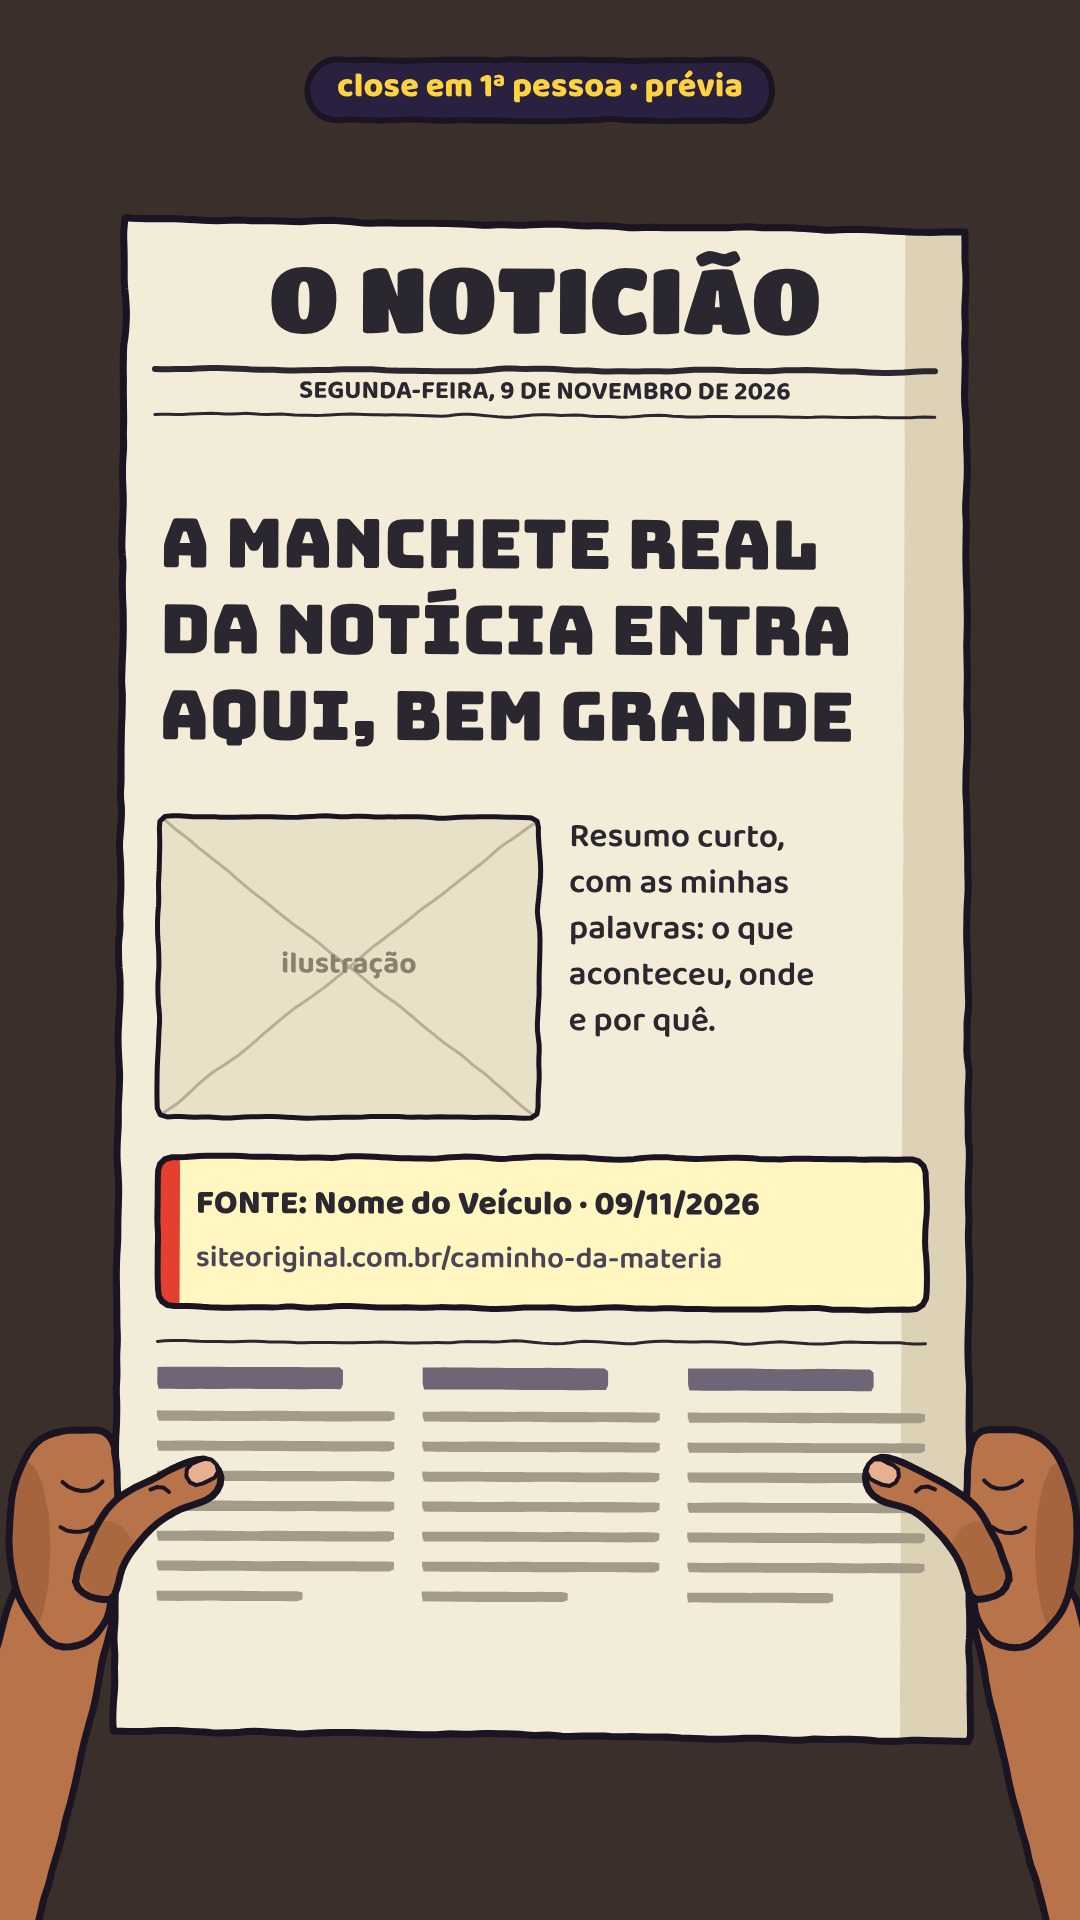
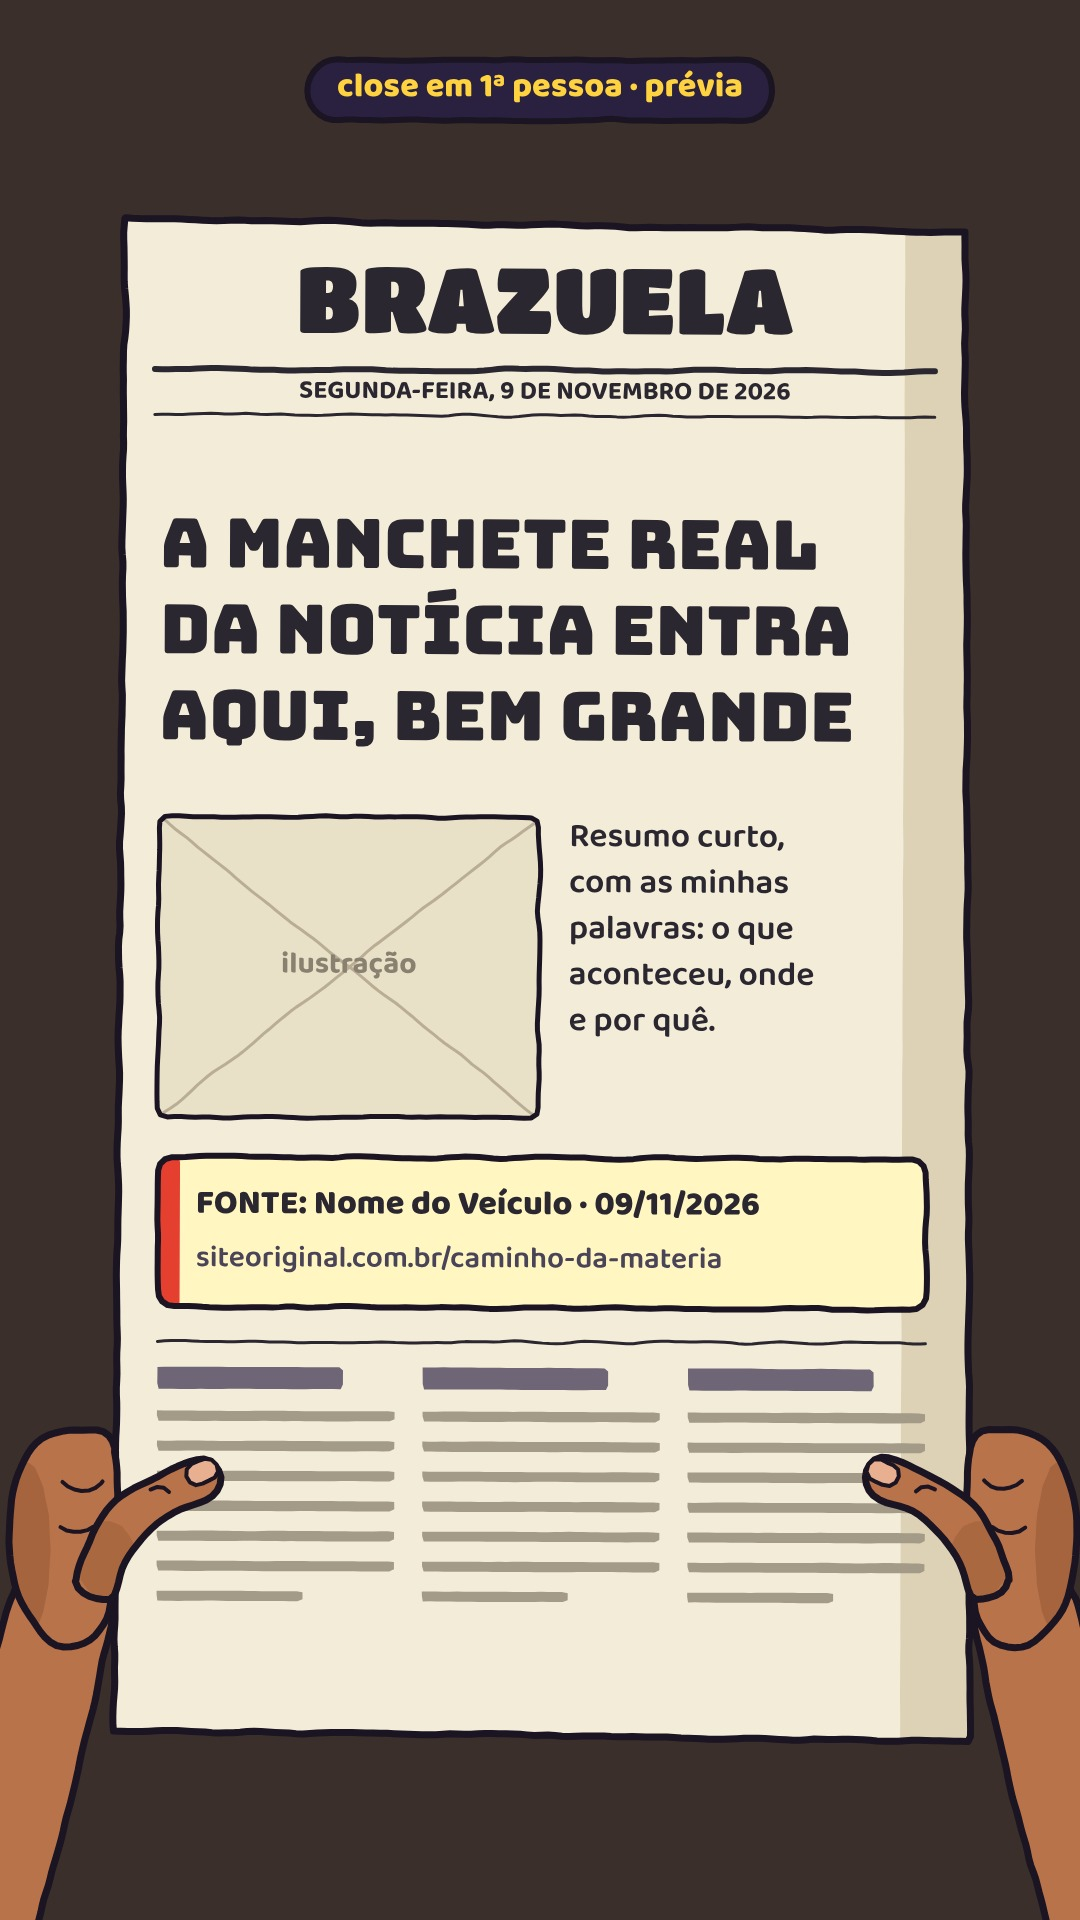
Name the cat Bituca, the parrot Lorenzo and the newspaper BRAZUELA
Claude-Session: https://claude.ai/code/session_01Vj4AmTyz2VXWMZUhwj9hEg

Changed region(s): [[0.3972, 0.125, 0.7639, 0.1875], [0.2444, 0.125, 0.3667, 0.1875]]

diff --git a/jornal/cast.js b/jornal/cast.js
@@ -317,7 +317,7 @@ function colher(hp, a) {
   pop();
 }
 
-// —— 3. O GATO MAGRICELO: cinza rajado, costelas à mostra, orelha dobrada, rabo com dobra, olhão de aprontar ——
+// —— 3. BITUCA, o gato magricelo: cinza rajado, costelas à mostra, orelha dobrada, rabo com dobra, olhão de aprontar ——
 // P: { x, y, s, t, face, arch (0..1), look, lid, mouth, tail }
 export function gato(P) {
   const t = P.t ?? 0, arch = P.arch ?? .3;
@@ -359,7 +359,7 @@ export function gato(P) {
   pop();
 }
 
-// —— 4. O PAPAGAIO: verde, testa azul, cara amarela, ombro vermelho, bico curvo que abre pra gritar ——
+// —— 4. LORENZO, o papagaio: verde, testa azul, cara amarela, ombro vermelho, bico curvo que abre pra gritar ——
 // P: { x, y, s, t, face, beak (0..1 aberto), look, lid, wing (0..1 aberta), bob }
 export function papagaio(P) {
   const t = P.t ?? 0, bk = P.beak ?? 0, wing = P.wing ?? 0;
@@ -586,7 +586,7 @@ export function jornalClose(P) {
     fillOnly(rect(W2 - 60, -H2, 80, H2 * 2), PAL.paperS, { boil: .2 });
     stroke([[-W2 + 30, -H2 + 150], [W2 - 30, -H2 + 150]], 6, { line: PAL.news }); stroke([[-W2 + 30, -H2 + 196], [W2 - 30, -H2 + 196]], 3, { line: PAL.news });
   } });
-  text(P.masthead ?? 'O NOTICIÃO', 0, -H2 + 82, { font: '92px "Titan One"', fill: PAL.news });
+  text(P.masthead ?? 'BRAZUELA', 0, -H2 + 82, { font: '92px "Titan One"', fill: PAL.news });
   text(P.date ?? 'SEGUNDA-FEIRA, 9 DE NOVEMBRO DE 2026', 0, -H2 + 174, { font: '700 26px "Baloo 2"', fill: PAL.news });
   if (P.kicker) { shape(rr(-W2 + 34, -H2 + 222, 260, 44, 8), { fill: PAL.pRed, lw: 5 }); text(P.kicker, -W2 + 164, -H2 + 245, { font: '800 28px "Baloo 2"', fill: '#ffffff' }); }
   const hl = P.headline ?? ['A MANCHETE REAL', 'DA NOTÍCIA ENTRA', 'AQUI, BEM GRANDE'];

diff --git a/jornal/sheet.js b/jornal/sheet.js
@@ -46,13 +46,13 @@ window.render = (t) => {
     fillOnly(rect(0, 1240, 540, 50), PAL.floor, { boil: 0 });
     gato({ x: 290, y: 1258, s: .95, t, arch: .55, look: [.6, -.4] });
   });
-  label(20, 888, 3, 'O GATO', 'magricelo · bagunceiro');
+  label(20, 888, 3, 'BITUCA', 'magricelo · bagunceiro');
   clip(540, 850, 540, 440, () => {
     cell(540, 850, 540, 440, ['#ffb347', '#ff9a55', '#ff8a5c']);
     poleiro({ x: 800, y: 1290, s: 1, h: 120 });
     papagaio({ x: 790, y: 1166, s: .82, t, beak: .8, wing: .6, look: [.6, -.2] });
   });
-  label(560, 888, 4, 'O PAPAGAIO', 'repete na pior hora');
+  label(560, 888, 4, 'LORENZO', 'repete na pior hora');
   vline(540, 850, 1290); hline(1290);
 
   // 5 Poltrona + mesinha + café
@@ -73,7 +73,7 @@ window.render = (t) => {
     jornalClose({ t });
     pop();
   });
-  label(560, 1328, 6, 'O JORNAL', 'close nas mãos dele');
+  label(560, 1328, 6, 'BRAZUELA', 'o jornal · close nas mãos dele');
   vline(540, 1290, 1920);
 };
 await document.fonts.load('58px "Titan One"'); await document.fonts.load('800 38px "Baloo 2"'); await document.fonts.load('78px "Bungee"');

diff --git a/SERIE-JORNAL.md b/SERIE-JORNAL.md
@@ -8,8 +8,8 @@ A pessoa manda uma **notícia** (de preferência o link; print também serve). U
 ## Elenco fixo (desenhar uma vez, reaproveitar em todo episódio)
 - **Seu Chicó** (o senhor; desenhado a partir da foto de referência da pessoa): cabelo branco cacheado, óculos de armação escura, bigodinho branco, camiseta azul com o "14" pontilhado, calça azul-marinho e chinelo de dedo. Gesto típico: a mão no queixo. Sentado na poltrona, lê o jornal todo dia, dá opiniões engraçadas e ri.
 - **Dona Zefinha** (a esposa; mesma foto de referência): cabelo grisalho puxado num coque, óculos de aro fino, vestido azul com estampa de treliça, casaco vermelho com desenhos geométricos e chinelo azul-marinho. Fica de braços cruzados e cara séria. Está sempre na cozinha fazendo alguma coisa. Se intromete de vez em quando com bordões: "bem que te avisei", "né pussive", "rapaz, o mundo tá de cabeça pra baixo mesmo" e outros a inventar.
-- **Gato magricelo:** faz bagunça e estressa o senhor (derruba a xícara etc.).
-- **Papagaio:** repete palavras para zoar o senhor no pior momento.
+- **Bituca** (gato magricelo): faz bagunça e estressa o senhor (derruba a xícara etc.).
+- **Lorenzo** (papagaio): repete palavras para zoar o senhor no pior momento.
 
 ## Cenário fixo
 Casa simples de interior, perto da hora do jantar. Poltrona com mesinha ao lado, garrafa de café e xícara. Cozinha visível ao fundo.
@@ -36,7 +36,7 @@ Casa simples de interior, perto da hora do jantar. Poltrona com mesinha ao lado,
 
 ## Áudio com várias vozes (ponto de atenção)
 São três vozes: senhor, esposa e papagaio, com risadas e interrupções.
-- **Recomendado:** um MP3 por fala, numerados na ordem (`01-seu.mp3`, `02-esposa.mp3`, `03-papagaio.mp3`…), gerados pela pessoa no ElevenLabs. Eu monto a conversa na linha do tempo, o que dá controle de pausas e das gags.
+- **Escolhido:** um MP3 por fala, numerados na ordem (`01-seu.mp3`, `02-esposa.mp3`, `03-papagaio.mp3`…), gerados pela pessoa no ElevenLabs. Eu monto a conversa na linha do tempo, o que dá controle de pausas e das gags.
 - **Alternativa:** um arquivo único de diálogo (ElevenLabs v3 com marcações de emoção como `[ri]`). Eu separo os falantes pela transcrição. Dá menos trabalho para a pessoa, mas é mais difícil corrigir uma fala isolada.
 - No roteiro eu entrego um bloco de texto pronto por fala, com a voz indicada e as marcações de emoção.
 - Vozes a definir: uma para cada personagem. O senhor pode ou não usar a voz padrão `ZqE9vIHPcrC35dZv0Svu`.
@@ -49,5 +49,5 @@ São três vozes: senhor, esposa e papagaio, com risadas e interrupções.
 
 ## Próximo passo
 1. Folha de elenco e cenário para aprovação: senhor, esposa, gato, papagaio e a sala com a cozinha ao fundo. **Feito, aguardando aprovação:** `jornal/elenco-previa.jpg`, `jornal/cenario-previa.jpg`, `jornal/jornal-close-previa.jpg` (código em `jornal/cast.js`).
-2. Nomes: **Seu Chicó** e **Dona Zefinha** (definidos). Faltam o nome do gato e do papagaio, as vozes do ElevenLabs e o nome do jornal (provisório: "O NOTICIÃO").
+2. Nomes definidos: **Seu Chicó**, **Dona Zefinha**, o gato **Bituca**, o papagaio **Lorenzo** e o jornal **BRAZUELA** (nome no cabeçalho do jornal desenhado). Áudio: a pessoa manda as falas separadas, um MP3 por fala.
 3. Primeira notícia: roteiro com as falas por personagem → MP3s da pessoa → produção. Reaproveitar o pipeline de `ciclone-janela/`: `tools/`, `toon.js`, `lib.js`, `mix.py`, `score.py`.
